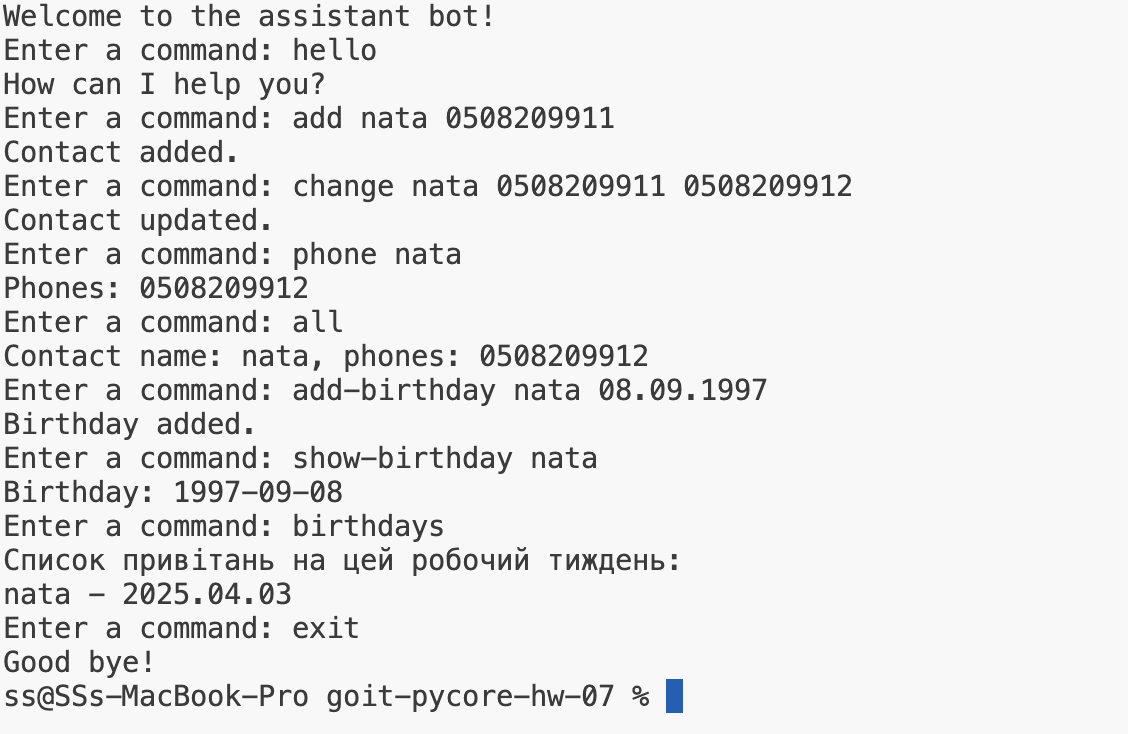
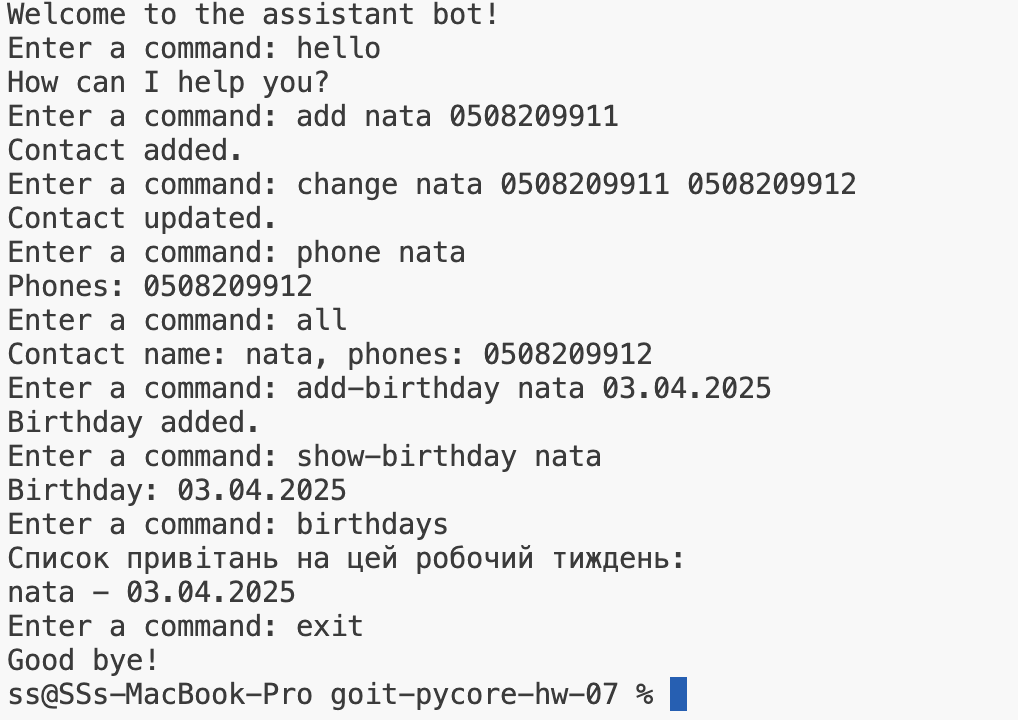
fix date output format

Changed region(s): [[0.0, 0.0, 0.8527, 1.0]]

diff --git a/src/task.py b/src/task.py
@@ -112,7 +112,7 @@ class AddressBook(UserDict):
             if birthday < today or birthday > max_range:
                 continue
 
-            cong_list.append({"name": user.name.value, "congratulation_date": birthday.strftime("%Y.%m.%d")})
+            cong_list.append({"name": user.name.value, "congratulation_date": birthday})
 
         return cong_list
 
@@ -153,7 +153,7 @@ def test():
     
     print(f"Список привітань на цей робочий тиждень:")
     for user in upcoming_birthdays:
-        print(f"{user['name']} - {user['congratulation_date']}")
+        print(f"{user['name']} - {user['congratulation_date'].strftime('%d.%m.%Y')}")
 
     # Видалення запису Jane
     book.delete("Jane")

diff --git a/src/task2.py b/src/task2.py
@@ -68,14 +68,14 @@ def show_birthday(args, book):
     record = book.find(name)
     if record is None:
         return "Contact not found."
-    return f"Birthday: {record.birthday.value}"
+    return f"Birthday: {record.birthday.value.strftime('%d.%m.%Y')}"
 
 @input_error
 def birthdays(args, book):
     upcoming_birthdays = book.get_upcoming_birthdays()
     print(f"Список привітань на цей робочий тиждень:")
     for user in upcoming_birthdays:
-        print(f"{user['name']} - {user['congratulation_date']}")
+        print(f"{user['name']} - {user['congratulation_date'].strftime('%d.%m.%Y')}")
     
 def main():
     book = AddressBook()
